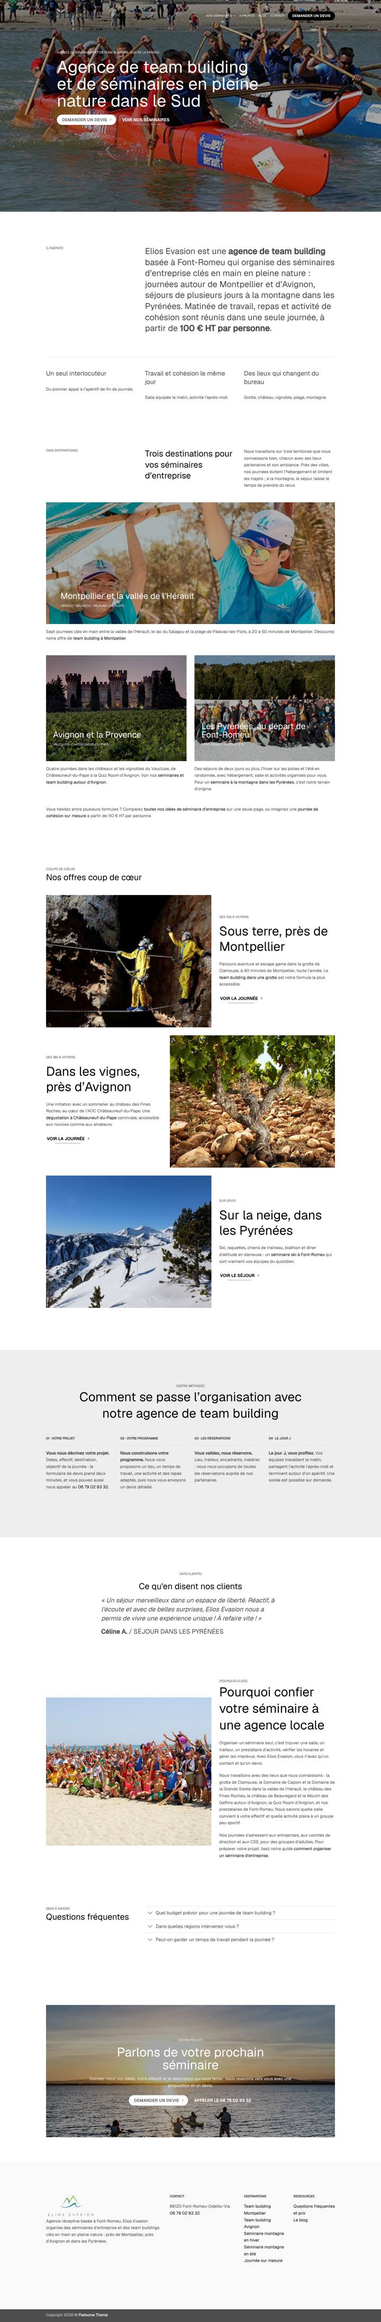
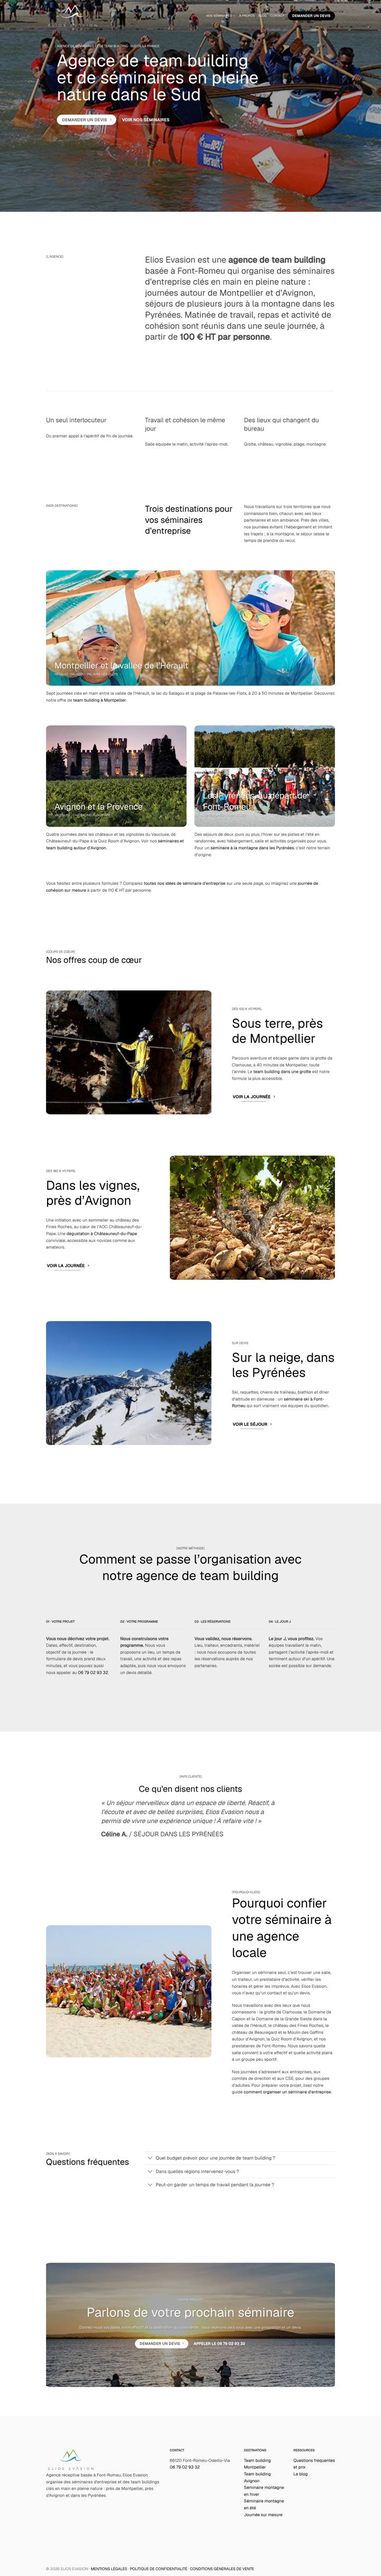
Accueil : photos à coins arrondis (ux_image_box) et mise en page plus aérée
Claude-Session: https://claude.ai/code/session_01JfUKqhuFk9sBzgWcwSgXTR

Changed region(s): [[0.0, 0.0, 1.0, 0.5621], [0.0, 0.687, 1.0, 1.0], [0.1222, 0.5933, 0.8861, 0.6558]]

diff --git a/elios-evasion/dev/00-consignes-dev.md b/elios-evasion/dev/00-consignes-dev.md
@@ -41,6 +41,7 @@
 | Sections réutilisables (CTA, réassurance, témoignages…) | Type de contenu **`blocks`** (`show_in_rest => true`), shortcode **`[block id=""]`** | `inc/post-types/post-type-ux-blocks.php` |
 | Footer | Option **`footer_block`** : choisit un Bloc UX comme footer | `inc/admin/options/footer/options-footer.php` |
 | Pleine largeur sans titre automatique | Modèle de page **`page-blank.php`** (« Page - Full Width ») ; pour un header transparent à texte clair : **`page-transparent-header-light.php`** | en-tête du fichier |
+| Photos à coins arrondis, avec dégradé | `[ux_image_box image_radius="2"]` (en **%** ; `.box-image` découpe la photo) ; `style="shade"` = dégradé sombre en bas ; `style="overlay"` + `image_overlay` = voile uni et texte centré (`text_pos="middle"`). **Ne pas** utiliser `[ux_banner]` pour une photo arrondie : son `border_radius` n'arrondit que la bordure décorative | `inc/shortcodes/ux_image_box.php`, `commons/border.php` |
 | Séparateurs de section (vagues, courbes) | Attributs de `[section]` : `divider_top`, `divider_top_height`, `divider_top_fill`, `divider_top_flip`, `divider`, `divider_height`, `divider_fill`, `divider_flip`, `divider_to_front`. Les formes disponibles sont dans `inc/builder/shortcodes/values/dividers.php` | `inc/shortcodes/sections.php` |
 | Fil d'Ariane | Option **`wpseo_breadcrumb`** : remplace le fil d'Ariane Flatsome par celui de Yoast | `inc/integrations/wp-seo/class-wp-seo.php` |
 | Formulaires | Contact Form 7, avec les **préréglages Flatsome** (onglet « Presets » dans l'éditeur de CF7 : classes `form-flat`, `flex-row`, `button primary`) | `inc/integrations/contact-form-7/contact-form-7.php` |
@@ -68,7 +69,7 @@ Tous les réglages passent par les options Flatsome. Chaque valeur est notée ic
 | Taille de base | `type_size` | 100 (16 px) ; échelle : 5 / 3 / 2 / 0,75 rem (`[ux_text font_size]`), voir `pages/accueil-design-releve.md` § 2.2 |
 | Largeur du contenu | `site_width` | 1152 |
 | Arrondi des boutons | `button_radius` | `99px` (pilule) |
-| Espacement des sections | attribut `padding` de `[section]` | 128px (64px sur mobile) |
+| Espacement des sections | attribut `padding` de `[section]` | **160px** (80px sur mobile) ; 48px entre titre et contenu, 96px entre les rangées d'offres, 48px entre photo et texte (retour du client : « plus aéré ») |
 | Logo | `site_logo` | logo actuel `LOGO_Elios-Evasion_wht.png` ; version foncée à fournir |
 
 **Règles d'usage dans les pages** (conséquences de la directive 3) :
@@ -177,3 +178,4 @@ Tous les réglages passent par les options Flatsome. Chaque valeur est notée ic
 | 30/10/2026 | Réponses du client sur le relevé : monochrome conservé pour l'instant (charte plus tard), police **Geist**, sections hors maquette ajoutées dans son style, sur-titres rédigés (ajoutés dans `accueil.md`), footer mixte. Points 🔶 vérifiés dans le zip Flatsome. Accueil sur le modèle `page-transparent-header-light.php`. Relevé v2 en attente de validation. |
 | 30/10/2026 | Export Flatsome du client sauvegardé (`sauvegardes/`). Import n° 1 (design global, 33 clés vérifiées) généré dans `imports/`, procédure dans `pages/accueil-options-globales.md`. Modern Image Formats : **AVIF**, à contrôler sur le 1ᵉʳ envoi. Logo **blanc uniquement** : header collant désactivé, nom en texte dans le footer, en attendant une version foncée. |
 | 30/10/2026 | Accueil construit en brouillon sur la préprod : page 8, blocs 21-23, menu 3, médias 12-20, logos 38-39. Envoi des JPEG d'origine à cause de l'AVIF. Logo couleur à texte foncé trouvé sur l'ancien site, d'où le header collant réactivé (import n° 2, à coller par le client). Écarts et captures dans `pages/accueil-ecarts.md`. |
+| 30/10/2026 | Retour du client sur le brouillon : plus d'air et photos à coins arrondis. Toutes les photos passent en `[ux_image_box]` arrondis (dégradé `shade` sur les cartes), et l'espacement passe à 160 px. Import n° 2 appliqué par le client. |

diff --git a/elios-evasion/dev/pages/accueil-ecarts.md b/elios-evasion/dev/pages/accueil-ecarts.md
@@ -11,7 +11,7 @@
 | Menu « Menu principal », emplacements `primary` et `primary_mobile` | 3 | `../../redaction/transverse/footer-et-menu.md` § 1 |
 | Médias | 12-20, 38, 39 | `accueil-medias.md` |
 | Options globales : import n° 1 (appliqué par le client) | — | `../imports/flatsome-import-1-design-global.txt` |
-| Options globales : import n° 2 (**à coller par le client**) | — | `../imports/flatsome-import-2-logo-header-footer.txt` |
+| Options globales : import n° 2 (appliqué par le client) | — | `../imports/flatsome-import-2-logo-header-footer.txt` |
 
 **Contrôle automatique** : `python3 ../outils/verifier-shortcodes.py accueil.ux.txt blocs/*.ux.txt` → OK. Tous les shortcodes et attributs sont dans la référence. Aucun `class` ni `style`, aucun repère `[À CONFIRMER]`, `[PROVISOIRE]` ou `[À FOURNIR]`.
 
@@ -25,7 +25,7 @@
 - classes du modèle transparent ajoutées comme le fait le thème (`structure-pages.php` l. 66-67 et `structure-header.php` l. 1130-1137) ;
 - footer remplacé par le bloc 23.
 
-Le logo et la barre du bas des captures sont **ceux d'avant l'import n° 2** : logo Flatsome par défaut, « Copyright Flatsome Theme ».
+Captures du 30/10 (2ᵉ version) : faites **après** l'import n° 2 (logo blanc dans le header, footer en bloc, barre du bas Elios).
 
 ## Écarts restants avec la maquette, et leur cause
 
@@ -34,8 +34,9 @@ Le logo et la barre du bas des captures sont **ceux d'avant l'import n° 2** : l
 | **Photos un peu floues** (hero, CTA, cartes) | Originaux de 600 × 600 px seulement | Originaux HD à fournir par le client |
 | **H1 du hero à environ 64 px** au lieu de 80 px, sur 3 lignes | Notre H1 SEO fait 70 caractères, contre 35 dans la maquette : à 80 px, il passait sur 5 lignes et sortait du bandeau | Garder 64 px, ou raccourcir le H1 (décision SEO) |
 | **H1 en graisse normale**, pas fine (light) | La graisse fine passe par la classe `alt-font` ; on ne met pas de classe à la main | Accepter, ou autoriser explicitement la classe `alt-font` fournie par Flatsome |
-| **Coins droits** sur les photos (maquette : environ 16 px) | `bg_radius` de la colonne arrondit le fond, pas la photo ; `border_radius` du bandeau n'arrondit que la bordure décorative | Essayer `[ux_image_box image_radius]` (en %, donc légèrement elliptique) ; sinon, accepter |
-| **Pas de dégradé** en bas des cartes | `bg_overlay` n'accepte qu'une couleur unie | Voile uni à 30 % (en place) |
+| ~~Coins droits~~ **Corrigé le 30/10** : toutes les photos (cartes, offres, « Pourquoi », CTA) sont des `[ux_image_box image_radius]` arrondis | `.box-image` a `overflow:hidden`, donc la photo est découpée. `image_radius` est **en %** (unité forcée dans `ux_image_box.php` l. 80) : 2 à 3 % selon le format, soit environ 17 px en largeur. Sur les formats très allongés, les coins sont à peine elliptiques | — |
+| ~~Pas de dégradé~~ **Corrigé** : cartes destinations en `style="shade"` | Le style `shade` de `[ux_image_box]` ajoute un dégradé sombre natif en bas de la photo | — |
+| **Espacements** (retour du client : « plus aéré ») **corrigés** | Sections à 160 px (80 px sur mobile), 48 px entre le titre d'une section et son contenu, 96 px entre les offres, marge de 48 px entre photo et texte (`padding` de colonne), `[gap]` entre les éléments | — |
 | **Pas d'espacement des lettres** sur les capitales | Pas d'option `letter-spacing` | Accepter |
 | **Menu sans pilule blanche translucide** | Pas d'option native | Menu en texte blanc sur la photo (en place) |
 | **Intro « L'agence » à 32 px** au lieu de 48 px | 60 mots, contre 45 dans la maquette : à 48 px, le bloc devenait très long | Garder, ou monter à 40 px |
